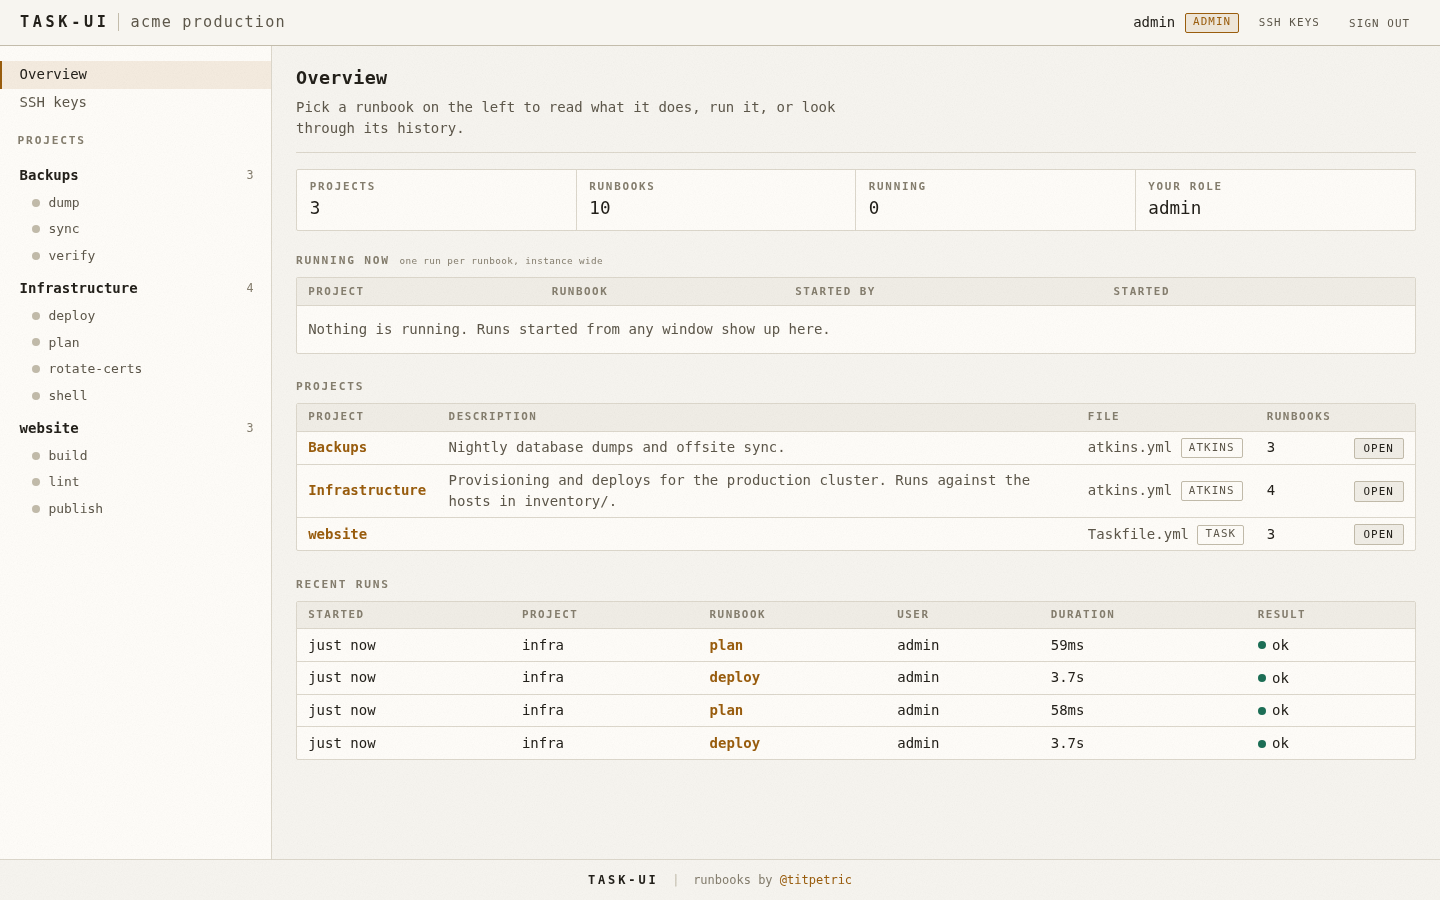
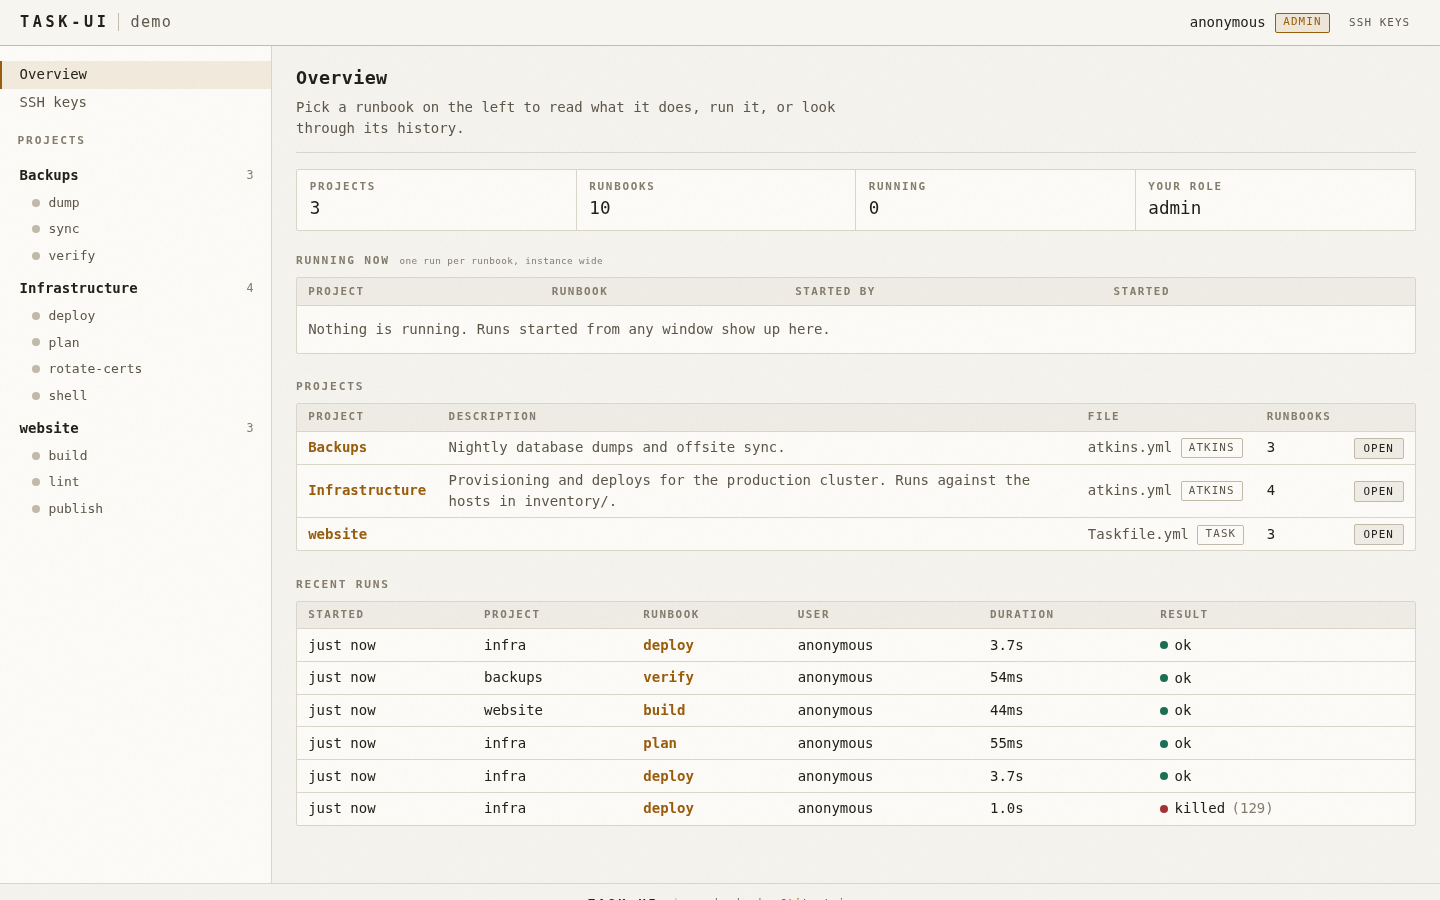
Screenshots from headless chromium, like oida
Drop the browser automation for screenshots and follow oida's approach:
scripts/chromium.sh captures a page with chromium's --screenshot flag,
scripts/run.sh runs a runbook over the websocket with curl, and
scripts/demo.sh serves testdata/demo, records real runs and captures
every view in both themes into .github/assets.

A recorded run opens in the dialog from #history=<id> or #replay=<id>,
which makes run logs linkable and the dialog capturable without a
driver. The history dialog hides the cursor once output is written, and
the footer sits at the bottom on short pages.

diff --git a/public_html/static/task-ui.js b/public_html/static/task-ui.js
@@ -6,6 +6,8 @@
 (function () {
   "use strict";
 
+  var history_ = window.history;
+
   var dialog = document.getElementById("run-dialog");
   var els = dialog && {
     kind: document.getElementById("run-kind"),
@@ -113,6 +115,9 @@
     if (session.onResize) window.removeEventListener("resize", session.onResize);
     var changed = session.changed;
     session = null;
+    if (/^#(history|replay)=/.test(location.hash)) {
+      history_.replaceState(null, "", location.pathname + location.search);
+    }
     // A run changes the history and the run state on the page.
     if (changed) window.location.reload();
   }
@@ -236,6 +241,9 @@
     buttons({});
     setState("running", "loading");
     var replay = btn.hasAttribute("data-replay");
+    // The open recording is in the address, so the link can be shared.
+    var id = btn.dataset.history.split("/").pop();
+    history_.replaceState(null, "", "#" + (replay ? "replay" : "history") + "=" + id);
 
     fetch(btn.dataset.history, { credentials: "same-origin" })
       .then(function (res) {
@@ -253,8 +261,8 @@
           } catch (e) { /* torn last line */ }
         }
         if (!replay) {
-          s.term.write(events.map(function (ev) { return ev[2]; }).join(""));
-          setState("ok", events.length + " chunks");
+          s.term.write(events.map(function (ev) { return ev[2]; }).join("") + "\x1b[?25l");
+          setState("ok", "recorded");
           return;
         }
         setState("running", "replaying");
@@ -262,6 +270,7 @@
         var step = function () {
           if (session !== s) return;
           if (idx >= events.length) {
+            s.term.write("\x1b[?25l");
             setState("ok", "done");
             return;
           }
@@ -340,6 +349,16 @@
       force: btn.hasAttribute("data-force"),
     });
   });
+
+  // #history=<id> and #replay=<id> open a recording on load.
+  function openFromHash() {
+    var match = /^#(history|replay)=([0-9A-Za-z-]+)$/.exec(location.hash);
+    if (!match || !dialog || !window.Terminal) return;
+    var selector = "[data-history$='/" + match[2] + "']" + (match[1] === "replay" ? "[data-replay]" : ":not([data-replay])");
+    var btn = document.querySelector(selector);
+    if (btn) history(btn);
+  }
+  openFromHash();
 
   document.addEventListener("submit", function (event) {
     var form = event.target.closest("form[data-confirm]");

diff --git a/public_html/static/task-ui.css b/public_html/static/task-ui.css
@@ -765,6 +765,7 @@ section.login .btn {
 /* ------------------------------------------------------------------ footer */
 
 footer {
+  margin-top: auto;
   position: relative;
   z-index: 1;
   padding: 0.7rem 1.25rem;

diff --git a/README.md b/README.md
@@ -143,10 +143,15 @@ Atkins files run with `atkins -f <file> <runbook>`, Taskfiles with
 
 | | |
 |-|-|
-| ![Runbook](.github/assets/runbook-dark.png) | ![Running](.github/assets/run-running-dark.png) |
-| ![Already running](.github/assets/run-busy-dark.png) | ![Finished, light theme](.github/assets/run-done-light.png) |
+| ![Runbook](.github/assets/runbook-dark.png) | ![A run replayed in the dialog](.github/assets/run-replay-dark.png) |
+| ![Project runbooks](.github/assets/project-dark.png) | ![A recorded run, light theme](.github/assets/run-history-light.png) |
 | ![Viewer](.github/assets/viewer-runbook-dark.png) | ![SSH keys](.github/assets/keys-dark.png) |
 | ![Login](.github/assets/login-dark.png) | ![Overview, light theme](.github/assets/overview-light.png) |
+
+`scripts/demo.sh` regenerates them: it serves `testdata/demo`, records real
+runs over the websocket with `scripts/run.sh`, and captures each view with
+headless chromium through `scripts/chromium.sh`. A recorded run opens in the
+dialog from a link: `/p/<project>/<runbook>#history=<id>`, or `#replay=<id>`.
 
 # Development
 
@@ -155,11 +160,12 @@ task: Available tasks for this project:
 * default:            Run everything
 * fix:                Fix code
 * install:            Install task-ui
-* run:                Run task-ui over the examples folder
+* run:                Run task-ui over the demo projects
 * test:               Test task-ui
 * docker:build:       Build task-ui docker image
 * docker:gen:         Generate ssh key for docker image
 * docker:run:         Run task-ui in docker env
+* docs:shots:         Regenerate the README screenshots
 
 ## task: default
 
@@ -180,10 +186,17 @@ commands:
 
 ## task: run
 
-Run task-ui over the examples folder
+Run task-ui over the demo projects
 
 commands:
 - `go run .`
+
+## task: docs:shots
+
+Regenerate the README screenshots
+
+commands:
+- `scripts/demo.sh`
 
 ## task: install
 
